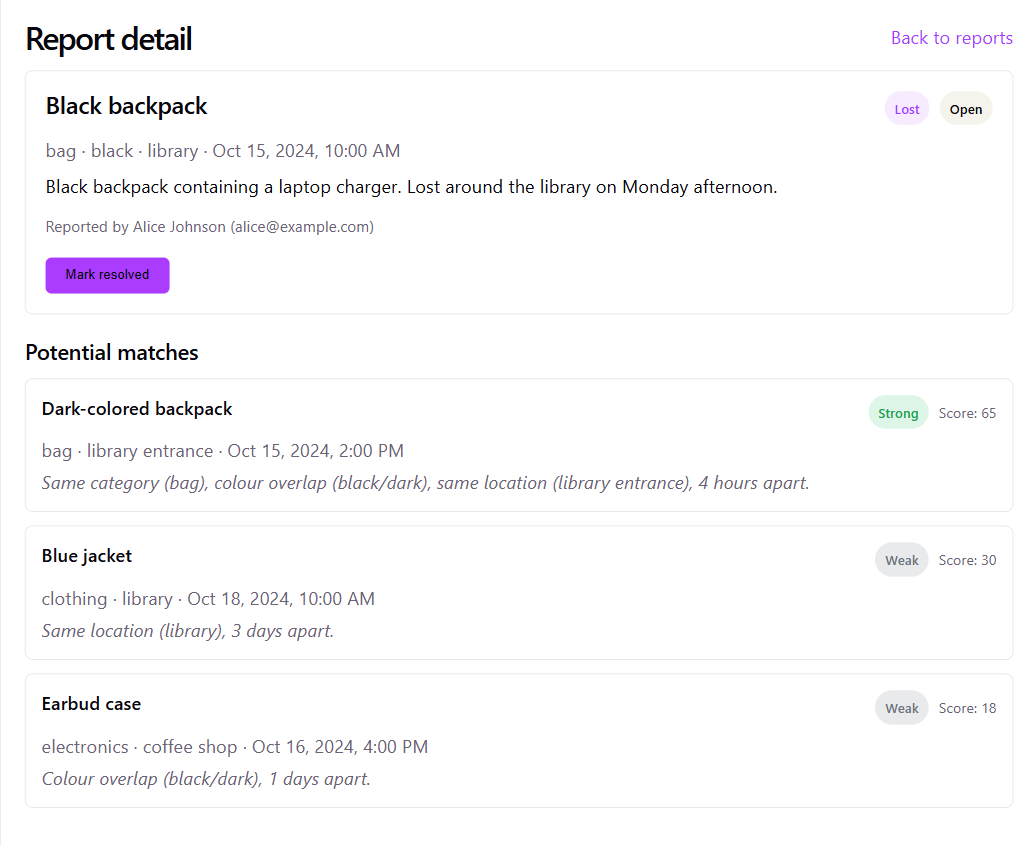
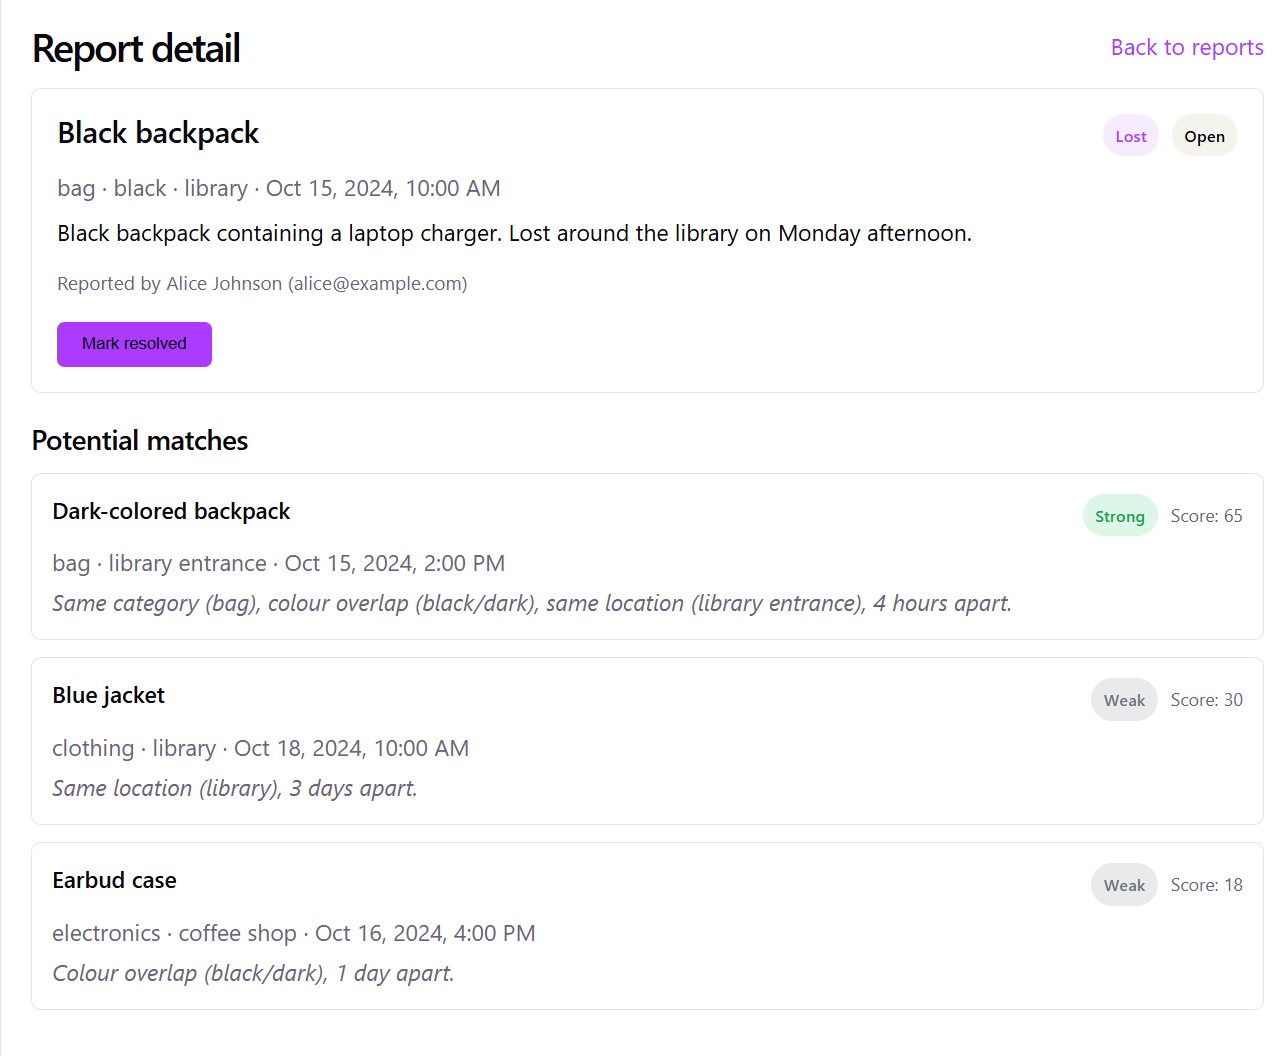
Fix final review findings: honest embedding-contribution reporting, noise-match filtering, CORS/docs fixes, cleanup
- README: replace unverified embedding claim with measured breakdowns
  (backpack Strong/65 = category20+color8+location16+date15+text6;
  AirPods Possible/52 = category20+color8+location8+date15+text1),
  computed by running score_pair() directly on the seeded pairs.
- approaches-and-assumptions.md: add a follow-up note acknowledging the
  design doc's Option D recommendation (no embeddings) was reversed
  during implementation, and why.
- matching.py/routes/reports.py: drop matches that score on fewer than
  2 of the 5 components (e.g. bare date-proximity noise, like the
  seeded AirPods/Water-bottle pair) instead of only dropping Hidden
  tier; add regression test in test_api.py.
- matching.py: fix "1 days apart"/"1 hours apart" pluralization.
- main.py: allow http://127.0.0.1:5173 in CORS origins alongside
  localhost:5173; warm up the embedding model at startup so the
  first-run ~130MB HuggingFace download happens during `uvicorn`
  startup instead of mid-request.
- README: correct frontend/backend host mismatch (localhost:8000, not
  127.0.0.1:8000), add pytest run instructions, note the first-run
  embedding model download.
- frontend: delete dead scaffold files (App.css, hero.png, react.svg,
  vite.svg, public/icons.svg, frontend/README.md), fix index.html
  title from "frontend" to "Lost & Found Matcher".
- Re-take screenshots 02 and 03 to reflect the pluralization fix and
  the removed noise match.

diff --git a/frontend/index.html b/frontend/index.html
@@ -4,7 +4,7 @@
     <meta charset="UTF-8" />
     <link rel="icon" type="image/svg+xml" href="/favicon.svg" />
     <meta name="viewport" content="width=device-width, initial-scale=1.0" />
-    <title>frontend</title>
+    <title>Lost &amp; Found Matcher</title>
   </head>
   <body>
     <div id="root"></div>

diff --git a/backend/tests/test_api.py b/backend/tests/test_api.py
@@ -192,6 +192,41 @@ def test_matches_404_for_missing_report(client: TestClient):
     assert resp.status_code == 404
 
 
+def test_matches_omits_pair_scoring_only_on_date_proximity(client: TestClient):
+    """A pair that shares nothing but being within 24h of each other (no
+    category, color, location, or text overlap) scores 15 ("Weak", not
+    Hidden) on date alone, but carries essentially zero relevance and should
+    not surface in the matches list."""
+    lost = _report_payload(
+        report_type="lost",
+        category="electronics",
+        title="AirPods case",
+        description="I lost my black AirPods case yesterday near the cafeteria.",
+        color="black",
+        location="cafeteria",
+        occurred_at="2026-08-17T14:00:00",
+    )
+    found = _report_payload(
+        report_type="found",
+        category="accessory",
+        title="Water bottle",
+        description="Found a blue water bottle at the gym",
+        color="blue",
+        location="gym",
+        occurred_at="2026-08-18T04:00:00",  # 14 hours later: date-only overlap
+    )
+
+    lost_id = client.post("/reports", json=lost).json()["id"]
+    found_id = client.post("/reports", json=found).json()["id"]
+
+    resp = client.get(f"/reports/{lost_id}/matches")
+    assert resp.status_code == 200
+    matches = resp.json()
+
+    match = next((m for m in matches if m["report"]["id"] == found_id), None)
+    assert match is None
+
+
 def test_matches_sorted_descending_by_score(client: TestClient):
     lost_id = client.post("/reports", json=LOST_A).json()["id"]
     client.post("/reports", json=FOUND_A)

diff --git a/backend/app/routes/reports.py b/backend/app/routes/reports.py
@@ -87,7 +87,18 @@ def get_matches(report_id: int, session: Session = Depends(get_session)) -> list
 
         breakdown = score_pair(lost, found)
         tier = tier_for_score(breakdown.total)
-        if tier == "Hidden":
+
+        # A pair that scores on fewer than two of the five components (e.g.
+        # nothing but date proximity) carries essentially zero relevance,
+        # even if the total happens to clear the Hidden threshold — drop it
+        # too, per the design's own "only essentially-zero-relevance pairs
+        # are dropped" intent.
+        contributing = sum(
+            1
+            for value in (breakdown.category, breakdown.color, breakdown.location, breakdown.date, breakdown.text)
+            if value > 0
+        )
+        if tier == "Hidden" or contributing < 2:
             continue
 
         reason = build_reason(lost, found, breakdown)

diff --git a/backend/app/main.py b/backend/app/main.py
@@ -6,12 +6,17 @@ from fastapi import FastAPI
 from fastapi.middleware.cors import CORSMiddleware
 
 from app.database import create_db_and_tables
+from app.embeddings import warm_up
 from app.routes.reports import router as reports_router
 
 
 @asynccontextmanager
 async def lifespan(app: FastAPI):
     create_db_and_tables()
+    # Load (and, on first run, download) the embedding model now, so the
+    # one-time delay happens at startup rather than mid-request the first
+    # time a user opens a report's matches.
+    warm_up()
     yield
 
 
@@ -19,7 +24,7 @@ app = FastAPI(title="Lost & Found Matcher API", lifespan=lifespan)
 
 app.add_middleware(
     CORSMiddleware,
-    allow_origins=["http://localhost:5173"],
+    allow_origins=["http://localhost:5173", "http://127.0.0.1:5173"],
     allow_credentials=True,
     allow_methods=["*"],
     allow_headers=["*"],

diff --git a/backend/app/matching.py b/backend/app/matching.py
@@ -191,9 +191,11 @@ def build_reason(lost: Report, found: Report, breakdown: ScoreBreakdown) -> str:
         if hours < 2:
             phrases.append("same day")
         elif hours < 24:
-            phrases.append(f"{round(hours)} hours apart")
+            hrs = round(hours)
+            phrases.append(f"{hrs} hour{'s' if hrs != 1 else ''} apart")
         else:
-            phrases.append(f"{round(hours / 24)} days apart")
+            days = round(hours / 24)
+            phrases.append(f"{days} day{'s' if days != 1 else ''} apart")
 
     # Skip below 10/30 to avoid noise from the embedding anisotropy floor.
     if breakdown.text >= 10:

diff --git a/backend/app/embeddings.py b/backend/app/embeddings.py
@@ -16,6 +16,16 @@ def _get_model() -> TextEmbedding:
     return _embedding_model
 
 
+def warm_up() -> None:
+    """Force the embedding model to load (and download, on first run).
+
+    Called from the app's startup lifespan so the one-time ~130MB
+    HuggingFace download happens while `uvicorn` is starting up, not mid
+    -request the first time a user clicks a report's matches.
+    """
+    _get_model()
+
+
 def embed(text: str) -> list[float]:
     """
     Embed text using fastembed.

diff --git a/README.md b/README.md
@@ -91,8 +91,18 @@ example:
 > apart."
 
 Verified end to end against the assessment brief's own worked examples: the library/backpack pair
-scores **Strong (65)**, and the AirPods-case/earbud-case pair — a genuine vocabulary mismatch that
-pure rule-based matching would likely miss — scores **Possible (52)**.
+scores **Strong (65)** (`category=20 color=8 location=16 date=15 text=6`), and the
+AirPods-case/earbud-case pair scores **Possible (52)** (`category=20 color=8 location=8 date=15
+text=1`). Looking at the actual breakdown, the embedding component's contribution on these two
+specific pairs is small — 1/30 and 6/30 — because the rule-based components already carry most of
+the signal on short descriptions like these (both pairs share category, colour, and a
+location/date match without any help from the text score). The backpack pair's "Strong" result
+does depend on those 6 points to clear the 65 threshold (59/100 without them would be "Possible,"
+not "Strong"), and the AirPods pair would still score "Possible" (51) with the text component
+removed entirely — rules alone already catch it via category + colour + date + location. At this
+data scale the embedding's real value is more about the vocabulary-mismatch cases it's *designed*
+to catch (see the design doc) than what these two seeded examples happen to demonstrate — see
+"What I'd improve" below.
 
 ![Backpack report detail with a Strong match](screenshots/02-report-detail-backpack-matches.png)
 ![AirPods case report detail with a Possible match](screenshots/03-report-detail-airpods-matches.png)
@@ -133,7 +143,7 @@ a low-quality match onto the list:
 - Authentication, per-user report ownership, and rate limiting/abuse handling.
 - Pagination and search — the report list assumes a demo-sized volume of reports.
 - CI and a broader automated test suite. Targeted unit tests exist for the scoring function and
-  the API (25 tests total), which felt like the higher-value spend for this scope, but there's no
+  the API (26 tests total), which felt like the higher-value spend for this scope, but there's no
   CI pipeline running them automatically.
 
 ## What I'd improve for a real product
@@ -207,6 +217,20 @@ uvicorn app.main:app --reload --port 8000
 The API is now running at `http://127.0.0.1:8000` (interactive docs at
 `http://127.0.0.1:8000/docs`).
 
+Note: the text-similarity component uses a local embedding model (`fastembed`,
+`BAAI/bge-small-en-v1.5`, ~130MB) that's downloaded from HuggingFace on first use rather than at
+`pip install` time. That download happens automatically at `uvicorn` startup (before the server
+starts accepting requests), so it needs network access and can take a moment the very first time
+you run the backend — after that it's cached locally and subsequent startups are fast.
+
+#### Running the tests
+
+```bash
+cd backend   # tests must be run from the backend/ directory
+# .venv already activated from the steps above
+pytest
+```
+
 ### Frontend
 
 In a second terminal:
@@ -218,11 +242,12 @@ pnpm dev
 ```
 
 The app is now running at `http://localhost:5173`. The frontend expects the backend on
-`http://127.0.0.1:8000`; both need to be running at the same time.
+`http://localhost:8000`; both need to be running at the same time.
 
 ---
 
 *Run instructions above were verified from a clean shell against this exact checkout: a fresh
 `pip install -r requirements.txt`, a from-scratch database seed (8 reports created), `uvicorn`
-serving `/reports` and `/reports/{id}/matches` correctly, and `pnpm install` + `pnpm dev` serving
-the frontend on port 5173.*
+serving `/reports` and `/reports/{id}/matches` correctly (including a live check that the
+embedding model download completes cleanly at startup), `pytest` passing all 26 tests from
+`backend/`, and `pnpm install` + `pnpm dev` serving the frontend on port 5173.*

diff --git a/approaches-and-assumptions.md b/approaches-and-assumptions.md
@@ -2,7 +2,7 @@
 
 Research + design options for the Nemma take-home assessment, before any code is written.
 Stack decided: **FastAPI backend + separate React frontend**, minimal web UI (forms to submit
-reports, a page to view ranked potential matches).
+reports, a page to view ranked potential matches). 
 
 ## Design philosophy: matching is advisory, not authoritative
 
@@ -103,6 +103,29 @@ Why this wins for *this* task specifically:
 - AI tools can still be used generously to *build* the app (per the brief, this doesn't count
   against us) — we're just choosing not to make AI/embeddings *part of the algorithm itself*, so
   the matching logic stays something we designed and can explain, not something we're borrowing.
+
+## Follow-up: this recommendation was partially reversed during implementation
+
+The rest of this document is left as-written — an honest record of the design reasoning at the
+time — but it's worth flagging explicitly that the shipped system does **not** follow Option D as
+recommended above. The text-similarity component ended up using a local embedding model
+(`fastembed`, `BAAI/bge-small-en-v1.5`) rather than the "no embedding model, no API key" TF-IDF/
+word-overlap approach argued for here. That happened after further discussion during design: the
+"AirPods case" vs. "earbud case" vocabulary-mismatch problem that motivated rejecting Option B in
+the first place is exactly the case that word-overlap scoring can't catch either (the two strings
+share almost no words), so a local, dependency-light embedding model was added for just that one
+component, keeping everything else — and the explainability argument that drove this whole
+recommendation — intact. See the README's "Major technical decisions" and "AI usage" sections for
+the fuller story.
+
+Worth noting as a finding in its own right: measuring the embedding component's actual
+contribution against the brief's own two worked examples afterward showed it was small — 1 of 30
+possible points on the AirPods/earbud-case pair and 6 of 30 on the backpack pair (see the README's
+"How the matching system works" section for the full breakdown). The rule-based components alone
+already carry most of the signal at this data scale. That doesn't mean the embedding component was
+a mistake — it's there for vocabulary-mismatch cases the seed data doesn't happen to stress — but
+it's a more honest picture than "embeddings solve the AirPods/earbud-case problem," which is closer
+to what this document originally argued against Option B for not being needed.
 
 ## Match presentation
 - Ranked list of candidate matches per lost (or found) report — a shortlist for a human to scan,
